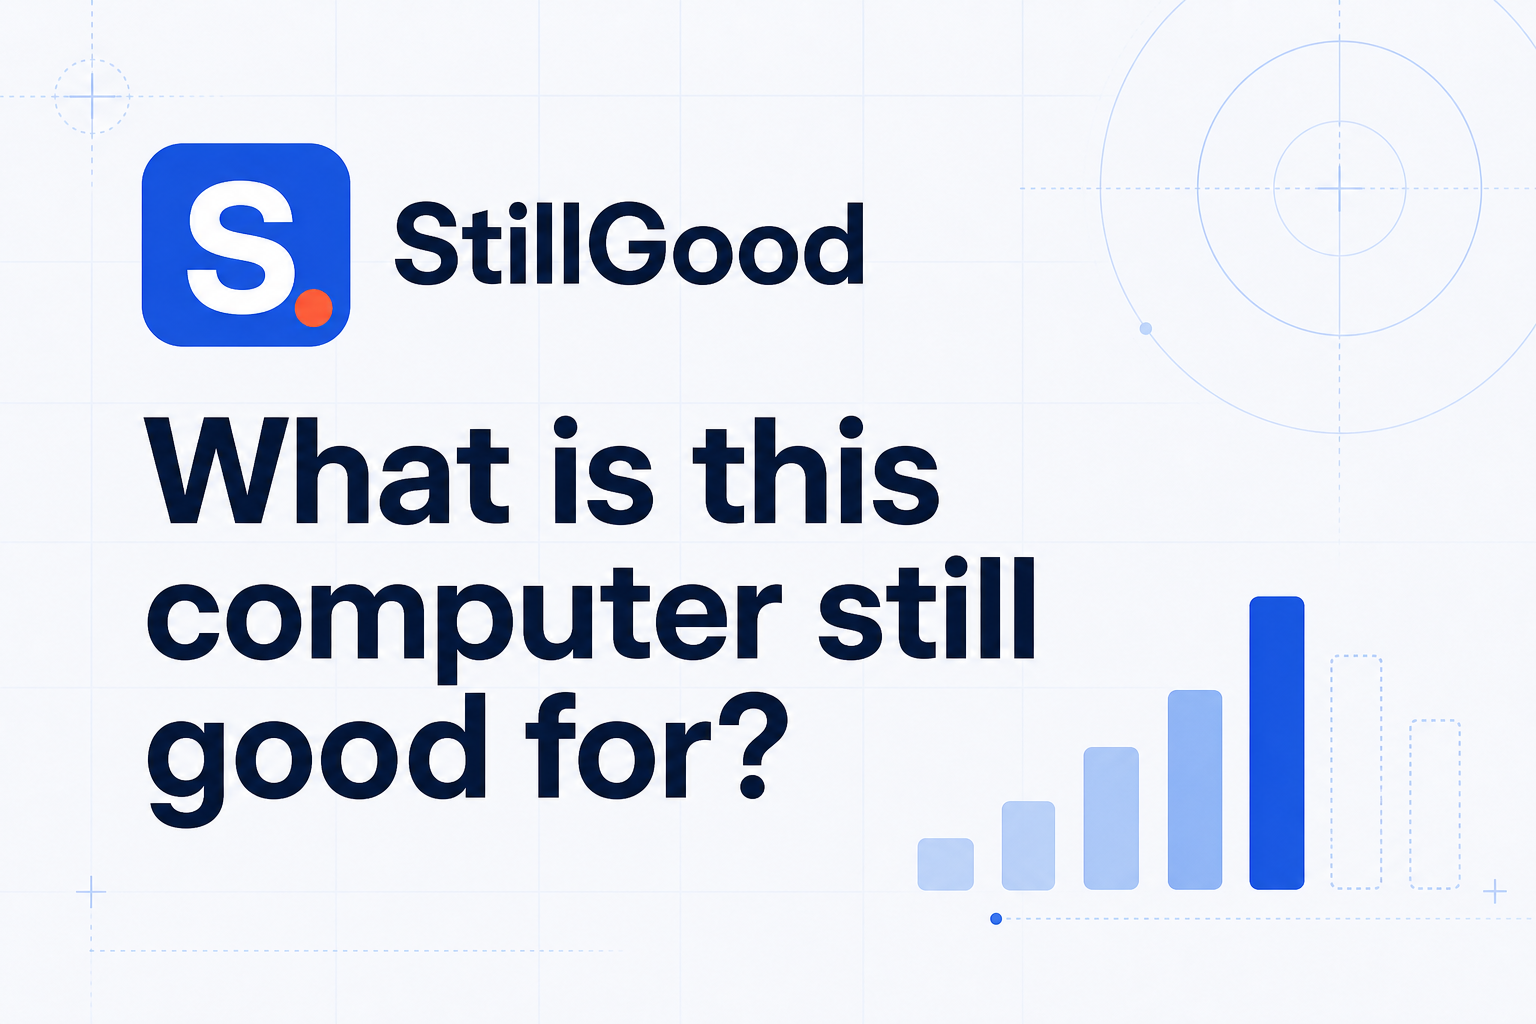
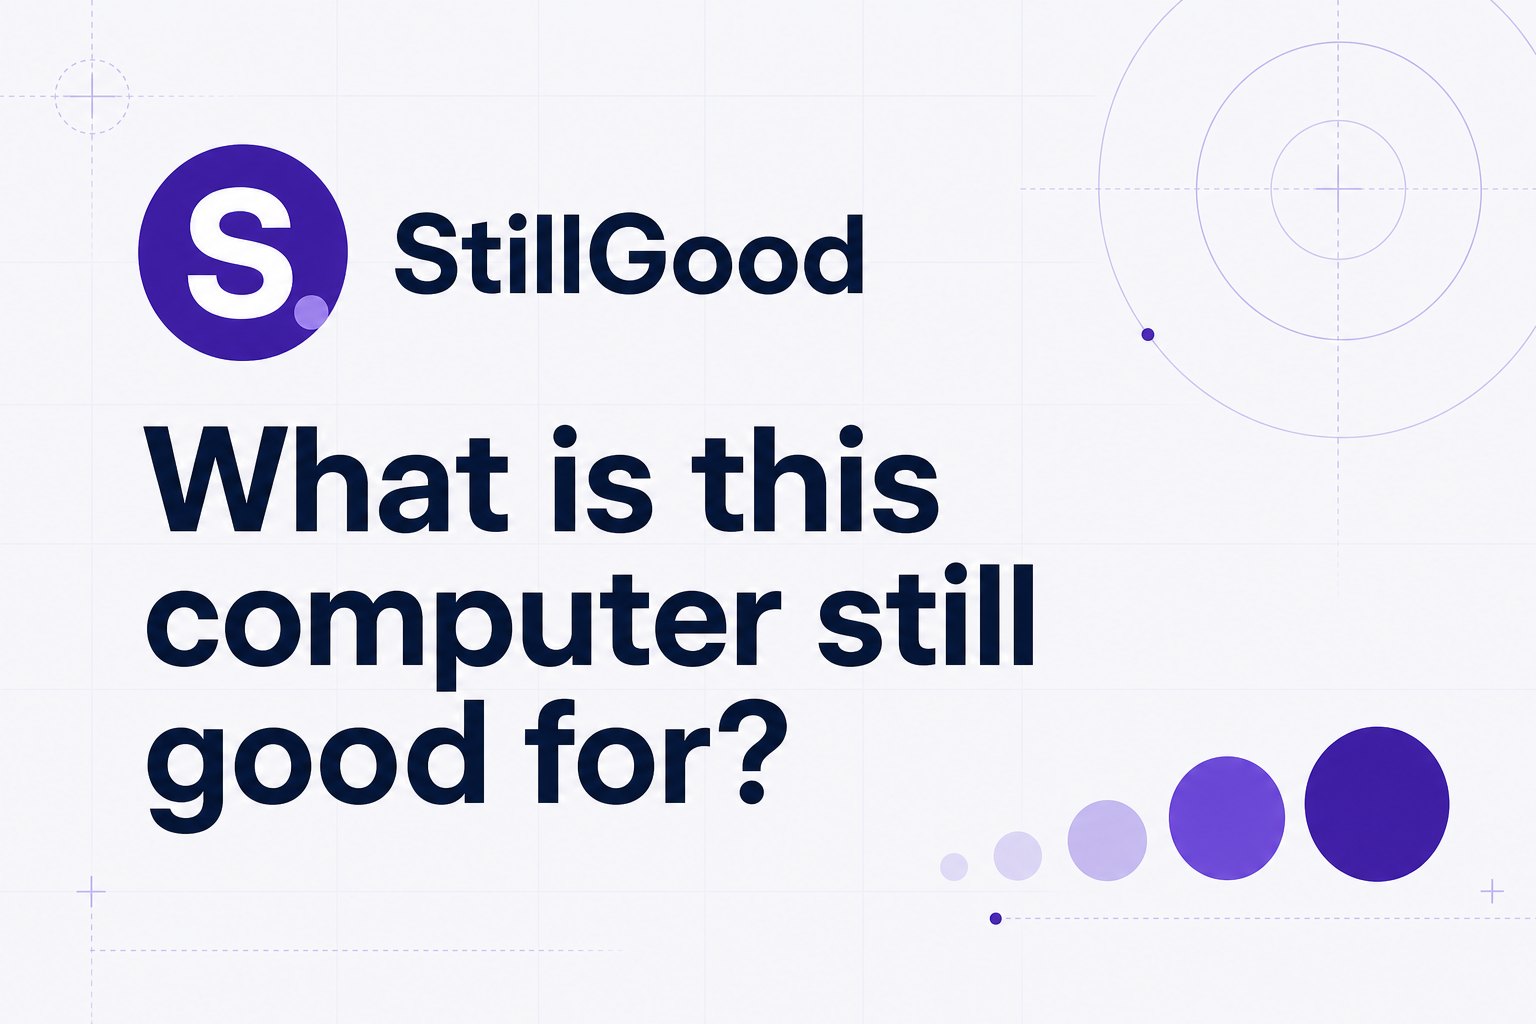
Refine StillGood identity around purple circles

diff --git a/app/globals.css b/app/globals.css
@@ -6,10 +6,10 @@
   --paper: #f6f7fb;
   --surface: #ffffff;
   --line: #dce1eb;
-  --accent: #ff6b4a;
-  --accent-dark: #3157c8;
-  --soft: #e9eeff;
-  --accent-soft: #fff0eb;
+  --accent: #6636b8;
+  --accent-dark: #4b227d;
+  --soft: #eee9f8;
+  --accent-soft: #f3eff9;
   --shadow: 0 24px 70px rgba(34, 49, 91, 0.14);
 }
 
@@ -57,10 +57,10 @@ button:focus-visible, a:focus-visible, summary:focus-visible {
   height: 30px;
   display: grid;
   place-items: center;
-  border-radius: 9px;
+  border-radius: 50%;
   color: white;
-  background: var(--accent-dark);
-  box-shadow: inset 0 -3px 0 rgba(18, 37, 99, 0.22);
+  background: var(--ink);
+  box-shadow: none;
   font-style: normal;
   font-weight: 850;
 }
@@ -89,9 +89,9 @@ button:focus-visible, a:focus-visible, summary:focus-visible {
 .simple-notice {
   margin: 18px 0 0;
   padding: 12px 14px;
-  border: 1px solid #f0b7a9;
+  border: 1px solid #cfc2e8;
   border-radius: 10px;
-  color: #7d2f20;
+  color: var(--accent-dark);
   background: var(--accent-soft);
   font-size: 13px;
 }
@@ -139,7 +139,7 @@ button:focus-visible, a:focus-visible, summary:focus-visible {
   place-content: center;
   border: 1px solid var(--accent-dark);
   border-radius: 50%;
-  color: var(--ink);
+  color: white;
   background: var(--accent);
   box-shadow:
     0 0 0 9px var(--paper),
@@ -162,7 +162,7 @@ button:focus-visible, a:focus-visible, summary:focus-visible {
   box-shadow:
     0 0 0 9px var(--paper),
     0 0 0 11px var(--accent-dark),
-    0 16px 40px rgba(49, 87, 200, 0.2);
+    0 16px 40px rgba(75, 34, 125, 0.22);
 }
 .quiet-instruction {
   margin: 28px 0 0;
@@ -190,7 +190,7 @@ button:focus-visible, a:focus-visible, summary:focus-visible {
   place-items: center;
   margin-bottom: 30px;
   border-radius: 50%;
-  color: var(--accent-dark);
+  color: white;
   background: var(--accent);
   font-size: 11px;
   font-weight: 800;
@@ -316,11 +316,11 @@ button:focus-visible, a:focus-visible, summary:focus-visible {
   margin: 0 auto 34px;
   border: 13px solid var(--accent);
   border-radius: 50%;
-  box-shadow: 0 0 0 0 rgba(255, 107, 74, 0.42);
+  box-shadow: 0 0 0 0 rgba(102, 54, 184, 0.38);
   animation: pulse 1.5s ease-out infinite;
 }
 @keyframes pulse {
-  70% { box-shadow: 0 0 0 22px rgba(255, 107, 74, 0); }
+  70% { box-shadow: 0 0 0 22px rgba(102, 54, 184, 0); }
 }
 .run-main {
   width: min(1120px, calc(100% - 48px));
@@ -363,7 +363,7 @@ button:focus-visible, a:focus-visible, summary:focus-visible {
   height: 8px;
   border-radius: 50%;
   background: var(--accent);
-  box-shadow: 0 0 0 5px rgba(255, 107, 74, 0.2);
+  box-shadow: 0 0 0 5px rgba(102, 54, 184, 0.16);
 }
 .test-visual {
   min-height: 420px;
@@ -575,7 +575,7 @@ button:focus-visible, a:focus-visible, summary:focus-visible {
   background: #fbfcfe;
 }
 .message-list article.selected {
-  background: #fff0eb;
+  background: var(--accent-soft);
 }
 .message-list article i {
   width: 9px;
@@ -682,7 +682,7 @@ button:focus-visible, a:focus-visible, summary:focus-visible {
 }
 .document-app > header em {
   margin-left: auto;
-  color: #3157c8;
+  color: var(--accent-dark);
   font-size: 8px;
   font-style: normal;
 }
@@ -734,7 +734,7 @@ button:focus-visible, a:focus-visible, summary:focus-visible {
   margin: 0 0 8px;
 }
 .editor-surface p.match {
-  background: #ffe3db;
+  background: #e8def7;
 }
 .editor-surface table {
   width: 100%;
@@ -817,14 +817,15 @@ button:focus-visible, a:focus-visible, summary:focus-visible {
   display: grid;
   place-items: center;
   border-radius: 50%;
+  color: white;
   background: var(--accent);
-  box-shadow: inset 0 -5px 0 rgba(126, 43, 25, 0.14);
+  box-shadow: none;
   font-family: Georgia, serif;
   font-size: 65px;
 }
 .answer-grade-wide {
-  width: 112px;
-  border-radius: 42% 58% 50% 50% / 55% 44% 56% 45%;
+  width: 104px;
+  border-radius: 50%;
   font-size: 48px;
 }
 .clear-answer h1 {
@@ -972,9 +973,9 @@ button:focus-visible, a:focus-visible, summary:focus-visible {
 .integrity-note {
   margin: 18px 0 0;
   padding: 18px 22px;
-  border: 1px solid #efc087;
+  border: 1px solid #cfc2e8;
   border-radius: 10px;
-  background: #fff7e8;
+  background: #f4f0fa;
 }
 .integrity-note strong {
   font-size: 12px;
@@ -997,13 +998,13 @@ button:focus-visible, a:focus-visible, summary:focus-visible {
   border-radius: 18px;
   color: white;
   background:
-    radial-gradient(circle at 92% 8%, rgba(255, 107, 74, 0.95) 0 8px, transparent 9px),
-    linear-gradient(125deg, #213e9e, var(--accent-dark));
-  box-shadow: 0 22px 50px rgba(33, 62, 158, 0.2);
+    radial-gradient(circle at 92% 8%, #9a7bd2 0 8px, transparent 9px),
+    linear-gradient(125deg, #162033, #242c3f);
+  box-shadow: 0 22px 50px rgba(22, 32, 51, 0.2);
 }
 .guide-invite .kicker {
   margin-bottom: 9px;
-  color: #bfcaff;
+  color: #cdbbea;
 }
 .guide-invite h2 {
   margin: 0;
@@ -1013,7 +1014,7 @@ button:focus-visible, a:focus-visible, summary:focus-visible {
 .guide-invite p:last-child {
   max-width: 620px;
   margin: 10px 0 0;
-  color: #e1e6ff;
+  color: #e6e1ee;
   font-size: 13px;
   line-height: 1.55;
 }
@@ -1027,7 +1028,7 @@ button:focus-visible, a:focus-visible, summary:focus-visible {
   padding: 0 17px 0 20px;
   border: 0;
   border-radius: 12px;
-  color: var(--ink);
+  color: white;
   background: var(--accent);
   font-size: 12px;
   font-weight: 780;
@@ -1079,7 +1080,7 @@ button:focus-visible, a:focus-visible, summary:focus-visible {
   gap: 11px;
   padding: 0 72px 0 30px;
   color: white;
-  background: #173584;
+  background: var(--ink);
 }
 .flyer-brand strong {
   font-size: 18px;
@@ -1087,7 +1088,7 @@ button:focus-visible, a:focus-visible, summary:focus-visible {
 }
 .flyer-brand small {
   margin-left: auto;
-  color: #cbd5ff;
+  color: #cfc4df;
   font-size: 10px;
   font-weight: 760;
   letter-spacing: 0.1em;
@@ -1099,8 +1100,8 @@ button:focus-visible, a:focus-visible, summary:focus-visible {
   height: 31px;
   display: grid;
   place-items: center;
-  border-radius: 9px;
-  color: #173584;
+  border-radius: 50%;
+  color: var(--ink);
   background: white;
   font-weight: 850;
 }
@@ -1110,7 +1111,7 @@ button:focus-visible, a:focus-visible, summary:focus-visible {
   top: -4px;
   width: 10px;
   height: 10px;
-  border: 2px solid #173584;
+  border: 2px solid var(--ink);
   border-radius: 50%;
   background: var(--accent);
   content: "";
@@ -1124,24 +1125,24 @@ button:focus-visible, a:focus-visible, summary:focus-visible {
   padding: 38px 48px;
   color: white;
   background:
-    radial-gradient(circle at 91% 25%, transparent 0 70px, rgba(122, 150, 255, 0.28) 71px 72px, transparent 73px),
-    linear-gradient(130deg, #1e43a5, #3157c8 68%, #456ce1);
+    radial-gradient(circle at 91% 25%, transparent 0 70px, rgba(167, 130, 222, 0.3) 71px 72px, transparent 73px),
+    linear-gradient(130deg, #162033, #242c3f);
 }
 .flyer-grade {
   width: 118px;
   height: 118px;
   display: grid;
   place-items: center;
-  border-radius: 37px 51px 42px 50px;
-  color: var(--ink);
+  border-radius: 50%;
+  color: white;
   background: var(--accent);
-  box-shadow: inset 0 -6px 0 rgba(126, 43, 25, 0.15);
+  box-shadow: none;
   font-family: Georgia, serif;
   font-size: 56px;
 }
 .flyer-hero p {
   margin: 0 0 9px;
-  color: #cbd5ff;
+  color: #cfc4df;
   font-size: 10px;
   font-weight: 780;
   letter-spacing: 0.1em;
@@ -1159,7 +1160,7 @@ button:focus-visible, a:focus-visible, summary:focus-visible {
   display: block;
   max-width: 640px;
   margin-top: 16px;
-  color: #e3e8ff;
+  color: #e5dfec;
   font-size: 13px;
   line-height: 1.55;
 }
@@ -1245,7 +1246,7 @@ button:focus-visible, a:focus-visible, summary:focus-visible {
 .flyer-cautions article {
   padding: 14px 15px;
   border-left: 3px solid var(--accent);
-  border-radius: 4px 10px 10px 4px;
+  border-radius: 0 10px 10px 0;
   background: var(--accent-soft);
 }
 .flyer-footer {
@@ -1330,7 +1331,7 @@ button:focus-visible, a:focus-visible, summary:focus-visible {
   .flyer-grade {
     width: 72px;
     height: 72px;
-    border-radius: 24px 30px 26px 31px;
+    border-radius: 50%;
     font-size: 35px;
   }
   .flyer-hero h2 { font-size: 34px; }

diff --git a/app/StillGoodApp.tsx b/app/StillGoodApp.tsx
@@ -579,7 +579,7 @@ export function StillGoodApp() {
           const x = (index * 47 + timestamp * 0.08) % canvas.width;
           const y = (index * 83 + timestamp * 0.04) % canvas.height;
           context.fillStyle =
-            index % 3 === 0 ? "#ff6b4a" : index % 3 === 1 ? "#75b9ff" : "#91a4f4";
+            index % 3 === 0 ? "#6636b8" : index % 3 === 1 ? "#9a7bd2" : "#c8b9e4";
           context.beginPath();
           context.arc(x, y, 2 + (index % 7), 0, Math.PI * 2);
           context.fill();
